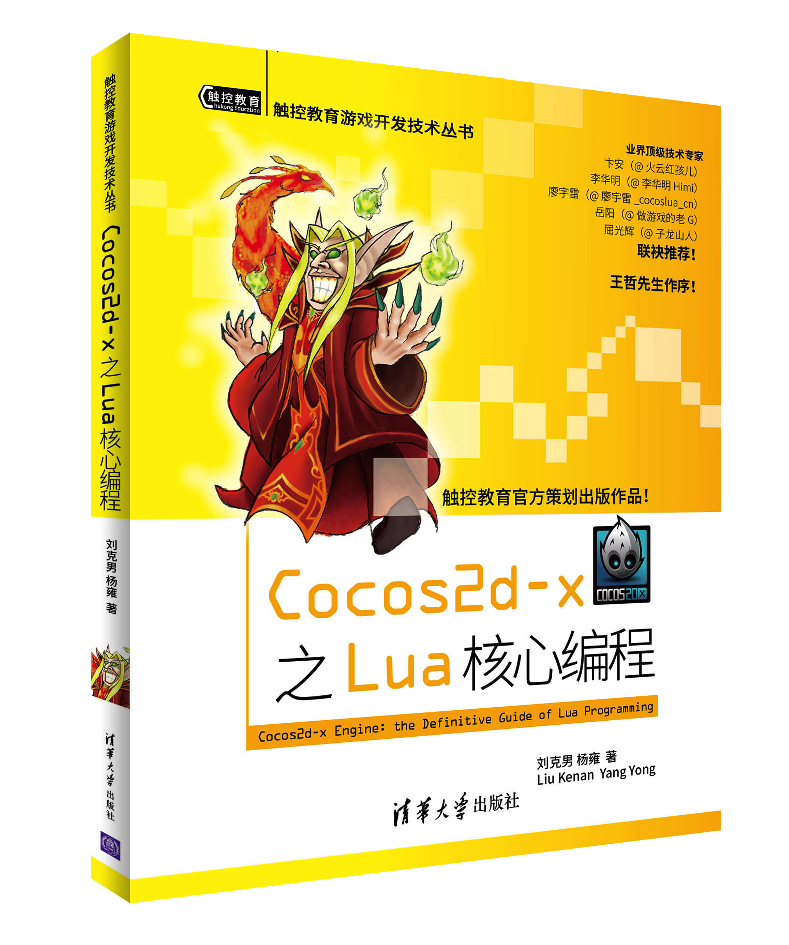
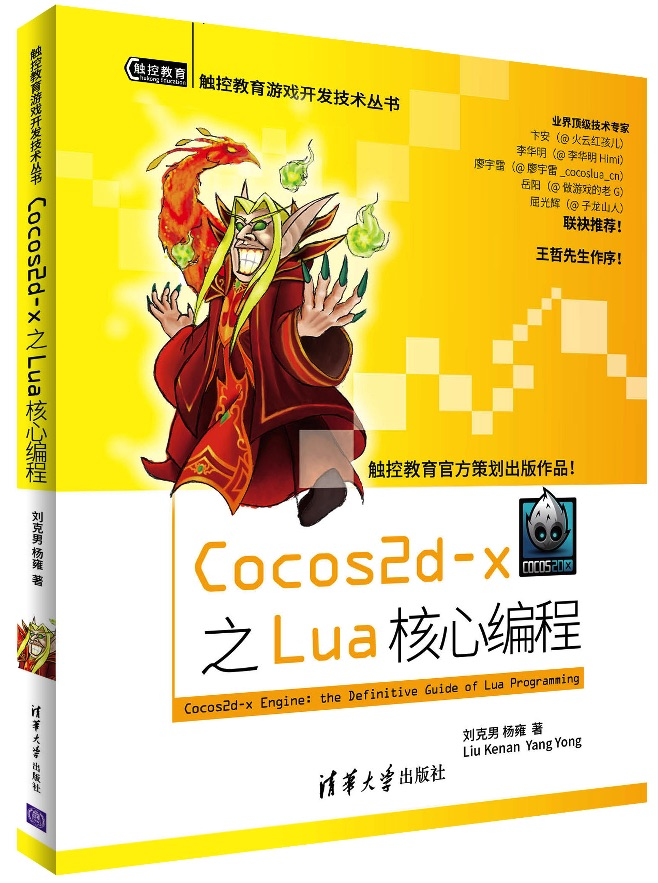
更新封面。

diff --git a/book/index.md b/book/index.md
@@ -2,7 +2,7 @@
 
 |第二版封面|第一版封面|
 |----|---|
-| ![Cocos2d Lua Book](./book.jpg) | ![Cocos2d Lua Book](./book.jpg) |
+| ![Cocos2d Lua Book](./book2.jpg) | ![Cocos2d Lua Book](./book.jpg) |
 
 ## 网购通道
 
